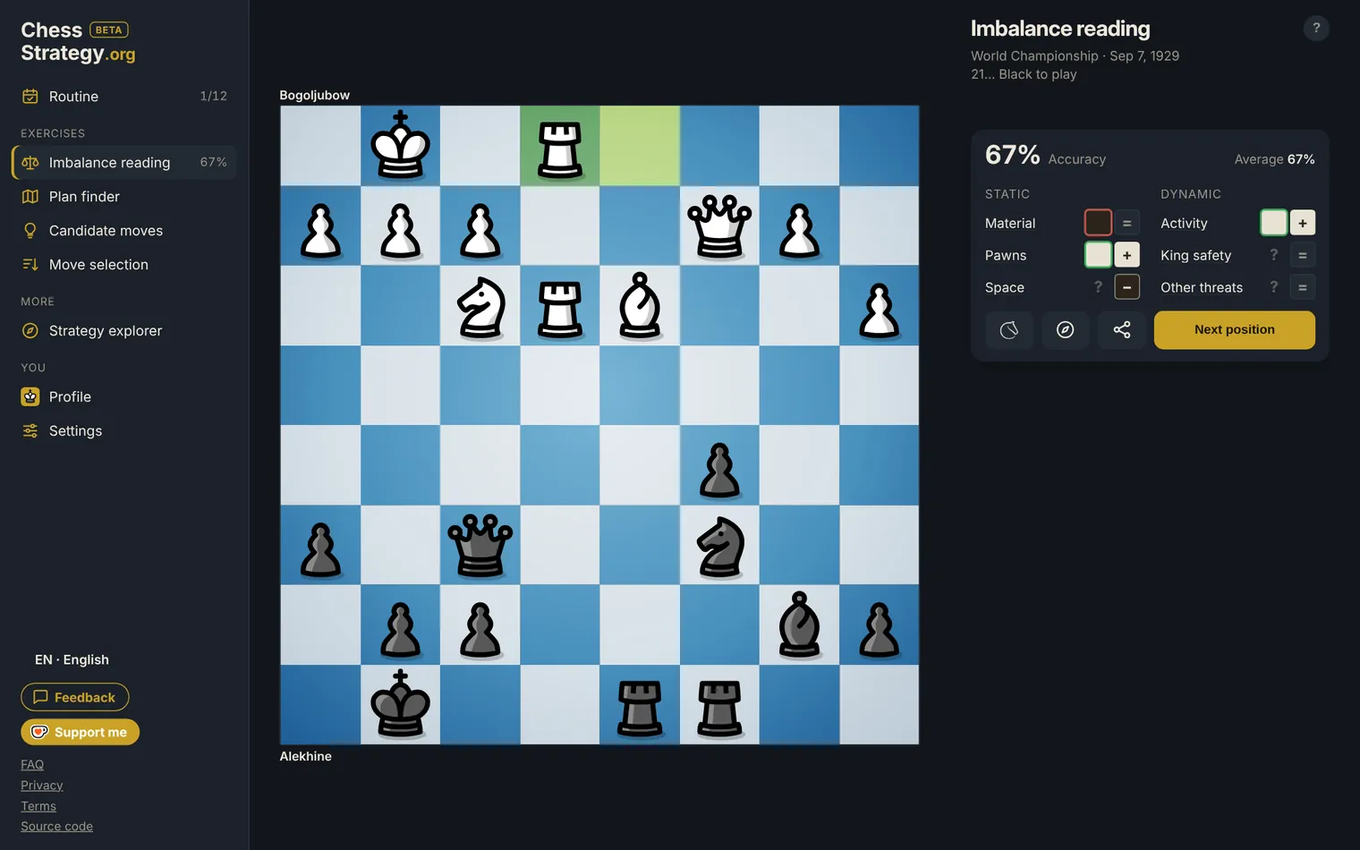
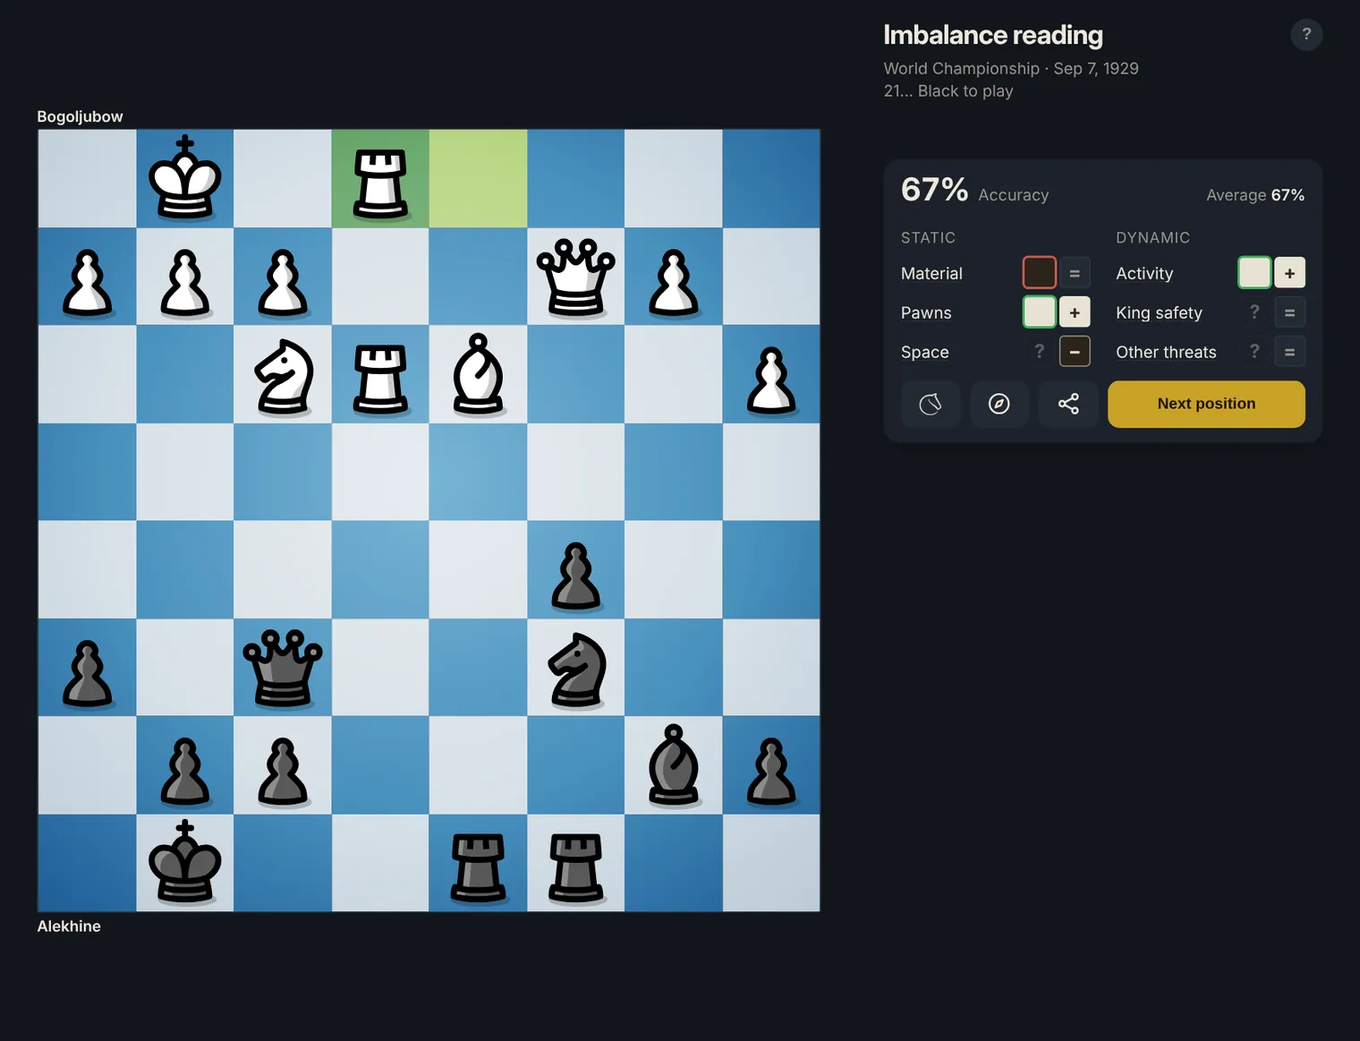
Guides' desktop screens: without the left menu
Claude-Session: https://claude.ai/code/session_01MnfZY7zM1xtVVHQnQ5TNNV

diff --git a/it/guide/scegliere-la-mossa-migliore/index.html b/it/guide/scegliere-la-mossa-migliore/index.html
@@ -67,7 +67,7 @@
 <h1>Scelta della mossa</h1>
 <p class="sub">Come scegliere la mossa migliore</p>
 <p class="lead">Diverse mosse possono sembrare buone, ma solo una è la migliore. Quando l'esplorazione delle <a href="../mosse-candidate/">mosse candidate</a> ti ha dato alcune opzioni serie, resta l'ultimo passo: scegliere tra loro, ed è lì che si perdono molte partite.</p>
-<figure><picture><source media="(min-aspect-ratio: 6/5) and (max-height: 600px)" srcset="../../../learn/img/move-selection-land-it.webp" width="1688" height="780"><source media="(min-aspect-ratio: 6/5)" srcset="../../../learn/img/move-selection-desk-it.webp" width="1520" height="950"><img src="../../../learn/img/move-selection-it.webp" width="390" height="844" alt="Correzione di Scelta della mossa su una posizione del Campionato del mondo 1963: quattro mosse ordinate, la mossa della partita Nxe4 è la migliore, due imprecisioni" loading="lazy"></picture><figcaption>La mossa della partita, Nxe4, è la migliore ed è stata trovata. Qh2, l'unica altra mossa giocabile, andava messa 2ª.</figcaption></figure>
+<figure><picture><source media="(min-aspect-ratio: 6/5) and (max-height: 600px)" srcset="../../../learn/img/move-selection-land-it.webp" width="1688" height="780"><source media="(min-aspect-ratio: 6/5)" srcset="../../../learn/img/move-selection-desk-it.webp" width="1520" height="1163"><img src="../../../learn/img/move-selection-it.webp" width="390" height="844" alt="Correzione di Scelta della mossa su una posizione del Campionato del mondo 1963: quattro mosse ordinate, la mossa della partita Nxe4 è la migliore, due imprecisioni" loading="lazy"></picture><figcaption>La mossa della partita, Nxe4, è la migliore ed è stata trovata. Qh2, l'unica altra mossa giocabile, andava messa 2ª.</figcaption></figure>
 <h2>Ordinare le opzioni</h2>
 <ul>
   <li><strong>Verifica che nessuna mossa sia un errore grave</strong>: guarda gli scacchi, le catture e le minacce dell'avversario dopo di essa. Una mossa che perde materiale o espone il re di solito scende in classifica, per quanto minacciosa sembri.</li>

diff --git a/es/guias/elegir-la-mejor-jugada/index.html b/es/guias/elegir-la-mejor-jugada/index.html
@@ -67,7 +67,7 @@
 <h1>Elección de jugada</h1>
 <p class="sub">Cómo elegir la mejor jugada</p>
 <p class="lead">Varias jugadas pueden parecer buenas, pero solo una es la mejor. Cuando explorar las <a href="../jugadas-candidatas/">jugadas candidatas</a> te ha dado algunas opciones serias, queda el último paso: elegir entre ellas, y ahí es donde se pierden muchas partidas.</p>
-<figure><picture><source media="(min-aspect-ratio: 6/5) and (max-height: 600px)" srcset="../../../learn/img/move-selection-land-es.webp" width="1688" height="780"><source media="(min-aspect-ratio: 6/5)" srcset="../../../learn/img/move-selection-desk-es.webp" width="1520" height="950"><img src="../../../learn/img/move-selection-es.webp" width="390" height="844" alt="Corrección de Elección de jugada en una posición del Campeonato del Mundo de 1963: cuatro jugadas ordenadas, la jugada de la partida Nxe4 es la mejor, dos imprecisiones" loading="lazy"></picture><figcaption>La jugada de la partida, Nxe4, es la mejor y se encontró. Qh2, la única otra jugada jugable, debía ir 2.ª.</figcaption></figure>
+<figure><picture><source media="(min-aspect-ratio: 6/5) and (max-height: 600px)" srcset="../../../learn/img/move-selection-land-es.webp" width="1688" height="780"><source media="(min-aspect-ratio: 6/5)" srcset="../../../learn/img/move-selection-desk-es.webp" width="1520" height="1163"><img src="../../../learn/img/move-selection-es.webp" width="390" height="844" alt="Corrección de Elección de jugada en una posición del Campeonato del Mundo de 1963: cuatro jugadas ordenadas, la jugada de la partida Nxe4 es la mejor, dos imprecisiones" loading="lazy"></picture><figcaption>La jugada de la partida, Nxe4, es la mejor y se encontró. Qh2, la única otra jugada jugable, debía ir 2.ª.</figcaption></figure>
 <h2>Ordenar tus opciones</h2>
 <ul>
   <li><strong>Comprueba que ninguna jugada sea un error grave</strong>: mira los jaques, capturas y amenazas del rival después de ella. Una jugada que pierde material o expone tu rey suele bajar en la lista, por amenazante que parezca.</li>

diff --git a/fr/guides/choisir-le-meilleur-coup/index.html b/fr/guides/choisir-le-meilleur-coup/index.html
@@ -67,7 +67,7 @@
 <h1>Choix du coup</h1>
 <p class="sub">Comment choisir le meilleur coup</p>
 <p class="lead">Plusieurs coups peuvent avoir l'air bien, mais un seul est le meilleur. Une fois que l'exploration des <a href="../coups-candidats/">coups candidats</a> vous a donné quelques options sérieuses, reste à choisir entre elles, et c'est là que beaucoup de parties se perdent.</p>
-<figure><picture><source media="(min-aspect-ratio: 6/5) and (max-height: 600px)" srcset="../../../learn/img/move-selection-land-fr.webp" width="1688" height="780"><source media="(min-aspect-ratio: 6/5)" srcset="../../../learn/img/move-selection-desk-fr.webp" width="1520" height="950"><img src="../../../learn/img/move-selection-fr.webp" width="390" height="844" alt="Correction de Choix du coup sur une position du championnat du monde 1963 : quatre coups classés, le coup joué Nxe4 est le meilleur, deux imprécisions" loading="lazy"></picture><figcaption>Le coup joué Nxe4 est le meilleur et a été trouvé. Qh2, le seul autre coup valable, aurait dû être 2e.</figcaption></figure>
+<figure><picture><source media="(min-aspect-ratio: 6/5) and (max-height: 600px)" srcset="../../../learn/img/move-selection-land-fr.webp" width="1688" height="780"><source media="(min-aspect-ratio: 6/5)" srcset="../../../learn/img/move-selection-desk-fr.webp" width="1520" height="1163"><img src="../../../learn/img/move-selection-fr.webp" width="390" height="844" alt="Correction de Choix du coup sur une position du championnat du monde 1963 : quatre coups classés, le coup joué Nxe4 est le meilleur, deux imprécisions" loading="lazy"></picture><figcaption>Le coup joué Nxe4 est le meilleur et a été trouvé. Qh2, le seul autre coup valable, aurait dû être 2e.</figcaption></figure>
 <h2>Classer vos options</h2>
 <ul>
   <li><strong>Vérifiez que chaque coup n'est pas une gaffe</strong> : regardez les échecs, prises et menaces de l'adversaire après lui. Un coup qui perd du matériel ou expose votre roi descend généralement dans le classement, aussi menaçant qu'il paraisse.</li>

diff --git a/fr/guides/desequilibres-aux-echecs/index.html b/fr/guides/desequilibres-aux-echecs/index.html
@@ -67,7 +67,7 @@
 <h1>Déséquilibres</h1>
 <p class="sub">Apprendre à lire une position</p>
 <p class="lead">Chaque position est un ensemble de différences entre les deux camps. Les joueurs forts repèrent les quelques-unes qui décident de la partie, et bâtissent leur plan autour : une idée rendue célèbre par Jeremy Silman.</p>
-<figure><picture><source media="(min-aspect-ratio: 6/5) and (max-height: 600px)" srcset="../../../learn/img/imbalance-reading-land-fr.webp" width="1688" height="780"><source media="(min-aspect-ratio: 6/5)" srcset="../../../learn/img/imbalance-reading-desk-fr.webp" width="1520" height="950"><img src="../../../learn/img/imbalance-reading-fr.webp" width="390" height="844" alt="Correction de Déséquilibres sur une position du championnat du monde 1929 : Activité et Pions aux Blancs, justes ; Matériel donné aux Noirs alors qu&#x27;il est équilibré ; Espace aux Noirs manqué" loading="lazy"></picture><figcaption>Activité et Pions aux Blancs : juste. Le Matériel a été donné aux Noirs, mais il est équilibré : c'est l'Espace qu'il fallait choisir.</figcaption></figure>
+<figure><picture><source media="(min-aspect-ratio: 6/5) and (max-height: 600px)" srcset="../../../learn/img/imbalance-reading-land-fr.webp" width="1688" height="780"><source media="(min-aspect-ratio: 6/5)" srcset="../../../learn/img/imbalance-reading-desk-fr.webp" width="1520" height="1163"><img src="../../../learn/img/imbalance-reading-fr.webp" width="390" height="844" alt="Correction de Déséquilibres sur une position du championnat du monde 1929 : Activité et Pions aux Blancs, justes ; Matériel donné aux Noirs alors qu&#x27;il est équilibré ; Espace aux Noirs manqué" loading="lazy"></picture><figcaption>Activité et Pions aux Blancs : juste. Le Matériel a été donné aux Noirs, mais il est équilibré : c'est l'Espace qu'il fallait choisir.</figcaption></figure>
 <h2>Les six déséquilibres</h2>
 <ul>
   <li><strong>Matériel</strong> : pion 1, cavalier et fou 3, tour 5, dame 9 ; la paire de fous ajoute un demi-pion.</li>

diff --git a/de/anleitungen/schachplan-finden/index.html b/de/anleitungen/schachplan-finden/index.html
@@ -67,7 +67,7 @@
 <h1>Planfindung</h1>
 <p class="sub">Wie man im Schach einen allgemeinen Plan findet</p>
 <p class="lead">„Ein schlechter Plan ist besser als gar keiner“, sagt die alte Weisheit (oft Tschigorin zugeschrieben). Ein Plan gibt dir eine Richtung für die Suche nach guten Zügen und hilft dir, bessere Entscheidungen zu treffen. Vier Fragen, der Reihe nach, können zu einem führen.</p>
-<figure><picture><source media="(min-aspect-ratio: 6/5) and (max-height: 600px)" srcset="../../../learn/img/plan-finder-land-de.webp" width="1688" height="780"><source media="(min-aspect-ratio: 6/5)" srcset="../../../learn/img/plan-finder-desk-de.webp" width="1520" height="950"><img src="../../../learn/img/plan-finder-de.webp" width="390" height="844" alt="Auswertung der Planfindung in einer WM-Stellung von 1963: Figuren behalten richtig, Beides statt Öffnen / Angreifen" loading="lazy"></picture><figcaption>Der schwarze König steckt im Zentrum fest, und die weiße Dame steht schon auf g6. Dieser schwache König entscheidet den Plan.</figcaption></figure>
+<figure><picture><source media="(min-aspect-ratio: 6/5) and (max-height: 600px)" srcset="../../../learn/img/plan-finder-land-de.webp" width="1688" height="780"><source media="(min-aspect-ratio: 6/5)" srcset="../../../learn/img/plan-finder-desk-de.webp" width="1520" height="1163"><img src="../../../learn/img/plan-finder-de.webp" width="390" height="844" alt="Auswertung der Planfindung in einer WM-Stellung von 1963: Figuren behalten richtig, Beides statt Öffnen / Angreifen" loading="lazy"></picture><figcaption>Der schwarze König steckt im Zentrum fest, und die weiße Dame steht schon auf g6. Dieser schwache König entscheidet den Plan.</figcaption></figure>
 <h2>Vier Fragen</h2>
 <ol>
   <li><strong>Etwas Dringendes?</strong> Schachs, Schlagzüge und Drohungen, für beide Seiten: etwas zu gewinnen oder zu verteidigen, etwa ein Bauer oder die Qualität. (Stellungen, in denen eine Figur oder mehr auf dem Spiel steht, sind ausgenommen: Dort entscheidet die Drohung den Zug.)</li>

diff --git a/es/guias/desequilibrios-en-ajedrez/index.html b/es/guias/desequilibrios-en-ajedrez/index.html
@@ -67,7 +67,7 @@
 <h1>Desequilibrios</h1>
 <p class="sub">Aprende a leer una posición</p>
 <p class="lead">Cada posición es un conjunto de diferencias entre los dos bandos. Los jugadores fuertes detectan las pocas que deciden la partida y planifican en torno a ellas: una idea que hizo famosa Jeremy Silman.</p>
-<figure><picture><source media="(min-aspect-ratio: 6/5) and (max-height: 600px)" srcset="../../../learn/img/imbalance-reading-land-es.webp" width="1688" height="780"><source media="(min-aspect-ratio: 6/5)" srcset="../../../learn/img/imbalance-reading-desk-es.webp" width="1520" height="950"><img src="../../../learn/img/imbalance-reading-es.webp" width="390" height="844" alt="Corrección de Desequilibrios en una posición del Campeonato del Mundo de 1929: Actividad y Peones para las blancas, correctos; Material dado a las negras aunque está equilibrado; Espacio para las negras, olvidado" loading="lazy"></picture><figcaption>Actividad y Peones para las blancas: correcto. El Material se dio a las negras, pero está equilibrado: había que elegir el Espacio.</figcaption></figure>
+<figure><picture><source media="(min-aspect-ratio: 6/5) and (max-height: 600px)" srcset="../../../learn/img/imbalance-reading-land-es.webp" width="1688" height="780"><source media="(min-aspect-ratio: 6/5)" srcset="../../../learn/img/imbalance-reading-desk-es.webp" width="1520" height="1163"><img src="../../../learn/img/imbalance-reading-es.webp" width="390" height="844" alt="Corrección de Desequilibrios en una posición del Campeonato del Mundo de 1929: Actividad y Peones para las blancas, correctos; Material dado a las negras aunque está equilibrado; Espacio para las negras, olvidado" loading="lazy"></picture><figcaption>Actividad y Peones para las blancas: correcto. El Material se dio a las negras, pero está equilibrado: había que elegir el Espacio.</figcaption></figure>
 <h2>Los seis desequilibrios</h2>
 <ul>
   <li><strong>Material</strong>: peón 1, caballo y alfil 3, torre 5, dama 9; la pareja de alfiles suma medio peón.</li>

diff --git a/fr/guides/trouver-un-plan-aux-echecs/index.html b/fr/guides/trouver-un-plan-aux-echecs/index.html
@@ -67,7 +67,7 @@
 <h1>Recherche du plan</h1>
 <p class="sub">Comment trouver un plan général aux échecs</p>
 <p class="lead">« Un mauvais plan vaut mieux que pas de plan du tout », dit le vieil adage (souvent attribué à Tchigorine). Un plan vous donne une direction pour chercher de bons coups, et vous aide à prendre de meilleures décisions. Quatre questions, dans l'ordre, peuvent y mener.</p>
-<figure><picture><source media="(min-aspect-ratio: 6/5) and (max-height: 600px)" srcset="../../../learn/img/plan-finder-land-fr.webp" width="1688" height="780"><source media="(min-aspect-ratio: 6/5)" srcset="../../../learn/img/plan-finder-desk-fr.webp" width="1520" height="950"><img src="../../../learn/img/plan-finder-fr.webp" width="390" height="844" alt="Correction de Recherche du plan sur une position du championnat du monde 1963 : Gardez les pièces juste, Au choix au lieu de Ouvrir / Attaquer" loading="lazy"></picture><figcaption>Le roi noir est resté au centre, et la dame blanche est déjà en g6. Ce roi faible décide du plan.</figcaption></figure>
+<figure><picture><source media="(min-aspect-ratio: 6/5) and (max-height: 600px)" srcset="../../../learn/img/plan-finder-land-fr.webp" width="1688" height="780"><source media="(min-aspect-ratio: 6/5)" srcset="../../../learn/img/plan-finder-desk-fr.webp" width="1520" height="1163"><img src="../../../learn/img/plan-finder-fr.webp" width="390" height="844" alt="Correction de Recherche du plan sur une position du championnat du monde 1963 : Gardez les pièces juste, Au choix au lieu de Ouvrir / Attaquer" loading="lazy"></picture><figcaption>Le roi noir est resté au centre, et la dame blanche est déjà en g6. Ce roi faible décide du plan.</figcaption></figure>
 <h2>Quatre questions</h2>
 <ol>
   <li><strong>Une urgence ?</strong> Échecs, prises et menaces, des deux côtés : quelque chose à gagner, ou à défendre, comme un pion ou la qualité. (Les positions où une pièce ou plus est en jeu sont écartées : là, c'est la menace qui décide du coup.)</li>

diff --git a/de/anleitungen/besten-zug-waehlen/index.html b/de/anleitungen/besten-zug-waehlen/index.html
@@ -67,7 +67,7 @@
 <h1>Zugwahl</h1>
 <p class="sub">Wie man den besten Zug wählt</p>
 <p class="lead">Mehrere Züge mögen gut aussehen, aber nur einer ist der beste. Wenn das Erkunden der <a href="../kandidatenzuege/">Kandidatenzüge</a> dir einige ernsthafte Optionen gegeben hat, bleibt als letzter Schritt die Wahl zwischen ihnen, und genau dort gehen viele Partien verloren.</p>
-<figure><picture><source media="(min-aspect-ratio: 6/5) and (max-height: 600px)" srcset="../../../learn/img/move-selection-land-de.webp" width="1688" height="780"><source media="(min-aspect-ratio: 6/5)" srcset="../../../learn/img/move-selection-desk-de.webp" width="1520" height="950"><img src="../../../learn/img/move-selection-de.webp" width="390" height="844" alt="Auswertung der Zugwahl in einer WM-Stellung von 1963: vier Züge geordnet, der Partiezug Nxe4 ist der beste, zwei Ungenauigkeiten" loading="lazy"></picture><figcaption>Der Partiezug Nxe4 ist der beste und wurde gefunden. Qh2, der einzige andere spielbare Zug, hätte auf Platz 2 gehört.</figcaption></figure>
+<figure><picture><source media="(min-aspect-ratio: 6/5) and (max-height: 600px)" srcset="../../../learn/img/move-selection-land-de.webp" width="1688" height="780"><source media="(min-aspect-ratio: 6/5)" srcset="../../../learn/img/move-selection-desk-de.webp" width="1520" height="1163"><img src="../../../learn/img/move-selection-de.webp" width="390" height="844" alt="Auswertung der Zugwahl in einer WM-Stellung von 1963: vier Züge geordnet, der Partiezug Nxe4 ist der beste, zwei Ungenauigkeiten" loading="lazy"></picture><figcaption>Der Partiezug Nxe4 ist der beste und wurde gefunden. Qh2, der einzige andere spielbare Zug, hätte auf Platz 2 gehört.</figcaption></figure>
 <h2>Deine Optionen ordnen</h2>
 <ul>
   <li><strong>Prüfe jeden Zug auf einen Patzer</strong>: Schau dir die Schachs, Schlagzüge und Drohungen des Gegners danach an. Ein Zug, der Material verliert oder deinen König entblößt, rutscht meist nach unten, so bedrohlich er auch aussieht.</li>

diff --git a/de/anleitungen/ungleichgewichte-im-schach/index.html b/de/anleitungen/ungleichgewichte-im-schach/index.html
@@ -67,7 +67,7 @@
 <h1>Ungleichgewichte</h1>
 <p class="sub">Lerne, eine Stellung zu lesen</p>
 <p class="lead">Jede Stellung ist eine Reihe von Unterschieden zwischen beiden Seiten. Starke Spieler erkennen die wenigen, die die Partie entscheiden, und planen danach: eine Idee, die Jeremy Silman bekannt gemacht hat.</p>
-<figure><picture><source media="(min-aspect-ratio: 6/5) and (max-height: 600px)" srcset="../../../learn/img/imbalance-reading-land-de.webp" width="1688" height="780"><source media="(min-aspect-ratio: 6/5)" srcset="../../../learn/img/imbalance-reading-desk-de.webp" width="1520" height="950"><img src="../../../learn/img/imbalance-reading-de.webp" width="390" height="844" alt="Auswertung der Übung Ungleichgewichte in einer WM-Stellung von 1929: Aktivität und Bauern für Weiß richtig, Material für Schwarz gewählt, obwohl ausgeglichen, Raum für Schwarz verpasst" loading="lazy"></picture><figcaption>Aktivität und Bauern für Weiß: richtig. Material wurde Schwarz gegeben, ist aber ausgeglichen: Raum war die richtige Wahl.</figcaption></figure>
+<figure><picture><source media="(min-aspect-ratio: 6/5) and (max-height: 600px)" srcset="../../../learn/img/imbalance-reading-land-de.webp" width="1688" height="780"><source media="(min-aspect-ratio: 6/5)" srcset="../../../learn/img/imbalance-reading-desk-de.webp" width="1520" height="1163"><img src="../../../learn/img/imbalance-reading-de.webp" width="390" height="844" alt="Auswertung der Übung Ungleichgewichte in einer WM-Stellung von 1929: Aktivität und Bauern für Weiß richtig, Material für Schwarz gewählt, obwohl ausgeglichen, Raum für Schwarz verpasst" loading="lazy"></picture><figcaption>Aktivität und Bauern für Weiß: richtig. Material wurde Schwarz gegeben, ist aber ausgeglichen: Raum war die richtige Wahl.</figcaption></figure>
 <h2>Die sechs Ungleichgewichte</h2>
 <ul>
   <li><strong>Material</strong>: Bauer 1, Springer und Läufer 3, Turm 5, Dame 9; das Läuferpaar zählt einen halben Bauern extra.</li>

diff --git a/es/guias/como-hacer-un-plan-en-ajedrez/index.html b/es/guias/como-hacer-un-plan-en-ajedrez/index.html
@@ -67,7 +67,7 @@
 <h1>Búsqueda del plan</h1>
 <p class="sub">Cómo encontrar un plan general en ajedrez</p>
 <p class="lead">«Un mal plan es mejor que ningún plan», dice el viejo refrán (a menudo atribuido a Chigorin). Un plan te da una dirección para buscar buenas jugadas y te ayuda a tomar mejores decisiones. Cuatro preguntas, en orden, pueden llevarte a uno.</p>
-<figure><picture><source media="(min-aspect-ratio: 6/5) and (max-height: 600px)" srcset="../../../learn/img/plan-finder-land-es.webp" width="1688" height="780"><source media="(min-aspect-ratio: 6/5)" srcset="../../../learn/img/plan-finder-desk-es.webp" width="1520" height="950"><img src="../../../learn/img/plan-finder-es.webp" width="390" height="844" alt="Corrección de Búsqueda del plan en una posición del Campeonato del Mundo de 1963: Mantener piezas correcto, Cualquiera en vez de Abrir / Atacar" loading="lazy"></picture><figcaption>El rey negro sigue atrapado en el centro, con la dama blanca ya en g6. Ese rey débil decide el plan.</figcaption></figure>
+<figure><picture><source media="(min-aspect-ratio: 6/5) and (max-height: 600px)" srcset="../../../learn/img/plan-finder-land-es.webp" width="1688" height="780"><source media="(min-aspect-ratio: 6/5)" srcset="../../../learn/img/plan-finder-desk-es.webp" width="1520" height="1163"><img src="../../../learn/img/plan-finder-es.webp" width="390" height="844" alt="Corrección de Búsqueda del plan en una posición del Campeonato del Mundo de 1963: Mantener piezas correcto, Cualquiera en vez de Abrir / Atacar" loading="lazy"></picture><figcaption>El rey negro sigue atrapado en el centro, con la dama blanca ya en g6. Ese rey débil decide el plan.</figcaption></figure>
 <h2>Cuatro preguntas</h2>
 <ol>
   <li><strong>¿Algo urgente?</strong> Jaques, capturas y amenazas, de ambos bandos: algo que ganar o que defender, como un peón o la calidad. (Las posiciones donde está en juego una pieza o más quedan fuera: ahí, la amenaza decide la jugada.)</li>

diff --git a/it/guide/trovare-un-piano-negli-scacchi/index.html b/it/guide/trovare-un-piano-negli-scacchi/index.html
@@ -67,7 +67,7 @@
 <h1>Ricerca del piano</h1>
 <p class="sub">Come trovare un piano generale negli scacchi</p>
 <p class="lead">«Un cattivo piano è meglio di nessun piano», dice il vecchio adagio (spesso attribuito a Čigorin). Un piano ti dà una direzione per cercare buone mosse e ti aiuta a prendere decisioni migliori. Quattro domande, in ordine, possono portarti a uno.</p>
-<figure><picture><source media="(min-aspect-ratio: 6/5) and (max-height: 600px)" srcset="../../../learn/img/plan-finder-land-it.webp" width="1688" height="780"><source media="(min-aspect-ratio: 6/5)" srcset="../../../learn/img/plan-finder-desk-it.webp" width="1520" height="950"><img src="../../../learn/img/plan-finder-it.webp" width="390" height="844" alt="Correzione di Ricerca del piano su una posizione del Campionato del mondo 1963: Tieni i pezzi giusto, Indifferente invece di Apri / Attacca" loading="lazy"></picture><figcaption>Il re nero è bloccato al centro, con la donna bianca già in g6. Quel re debole decide il piano.</figcaption></figure>
+<figure><picture><source media="(min-aspect-ratio: 6/5) and (max-height: 600px)" srcset="../../../learn/img/plan-finder-land-it.webp" width="1688" height="780"><source media="(min-aspect-ratio: 6/5)" srcset="../../../learn/img/plan-finder-desk-it.webp" width="1520" height="1163"><img src="../../../learn/img/plan-finder-it.webp" width="390" height="844" alt="Correzione di Ricerca del piano su una posizione del Campionato del mondo 1963: Tieni i pezzi giusto, Indifferente invece di Apri / Attacca" loading="lazy"></picture><figcaption>Il re nero è bloccato al centro, con la donna bianca già in g6. Quel re debole decide il piano.</figcaption></figure>
 <h2>Quattro domande</h2>
 <ol>
   <li><strong>Qualcosa di urgente?</strong> Scacchi, catture e minacce, per entrambi i lati: qualcosa da vincere o da difendere, come un pedone o la qualità. (Le posizioni in cui è in gioco un pezzo o più sono escluse: lì è la minaccia a decidere la mossa.)</li>

diff --git a/es/guias/jugadas-candidatas/index.html b/es/guias/jugadas-candidatas/index.html
@@ -67,7 +67,7 @@
 <h1>Jugadas candidatas</h1>
 <p class="sub">Encuentra una o más buenas jugadas</p>
 <p class="lead">La mayoría de los errores vienen de jugar la primera jugada que parece buena. El consejo de Alexander Kotov: haz primero una lista de algunas opciones serias, luego elige.</p>
-<figure><picture><source media="(min-aspect-ratio: 6/5) and (max-height: 600px)" srcset="../../../learn/img/candidate-moves-land-es.webp" width="1688" height="780"><source media="(min-aspect-ratio: 6/5)" srcset="../../../learn/img/candidate-moves-desk-es.webp" width="1520" height="950"><img src="../../../learn/img/candidate-moves-es.webp" width="390" height="844" alt="Corrección de Jugadas candidatas en una posición del Campeonato del Mundo de 2024: bxa3 y Qa5, las dos mejores del motor, luego h5, una imprecisión; la propia 3.ª jugada del motor también es una imprecisión" loading="lazy"></picture><figcaption>Aquí solo aguantan dos jugadas, bxa3 y Qa5, y se encontraron las dos. Pero la tercera elección debía haberse evitado.</figcaption></figure>
+<figure><picture><source media="(min-aspect-ratio: 6/5) and (max-height: 600px)" srcset="../../../learn/img/candidate-moves-land-es.webp" width="1688" height="780"><source media="(min-aspect-ratio: 6/5)" srcset="../../../learn/img/candidate-moves-desk-es.webp" width="1520" height="1163"><img src="../../../learn/img/candidate-moves-es.webp" width="390" height="844" alt="Corrección de Jugadas candidatas en una posición del Campeonato del Mundo de 2024: bxa3 y Qa5, las dos mejores del motor, luego h5, una imprecisión; la propia 3.ª jugada del motor también es una imprecisión" loading="lazy"></picture><figcaption>Aquí solo aguantan dos jugadas, bxa3 y Qa5, y se encontraron las dos. Pero la tercera elección debía haberse evitado.</figcaption></figure>
 <h2>Cómo encontrarlas</h2>
 <ul>
   <li><strong>Primero las jugadas forzantes</strong>: jaques, capturas y amenazas, de ambos bandos.</li>
